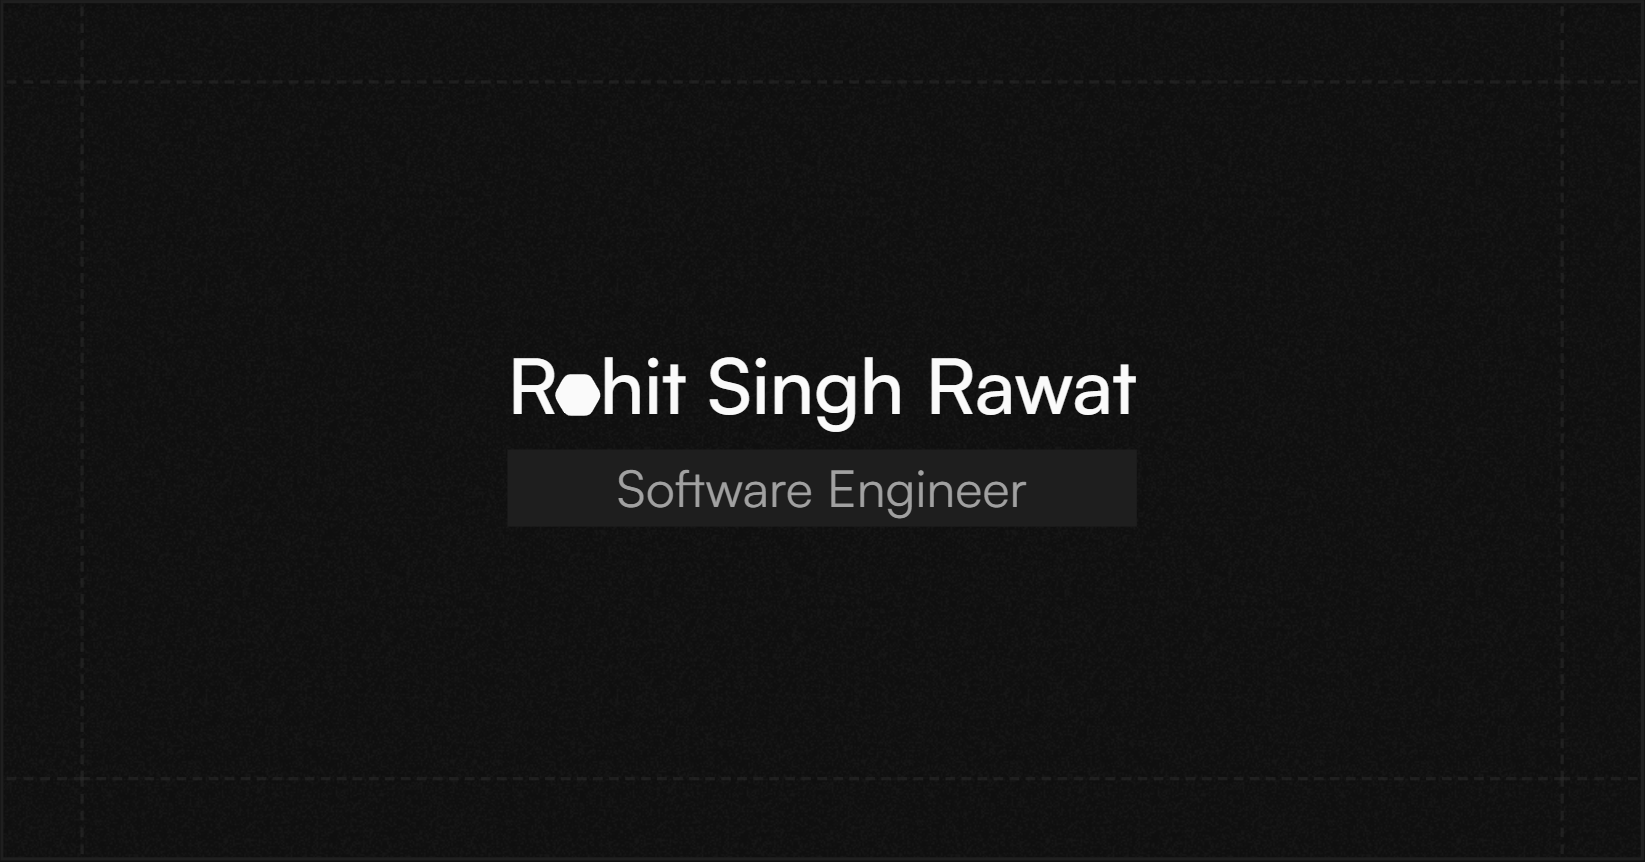
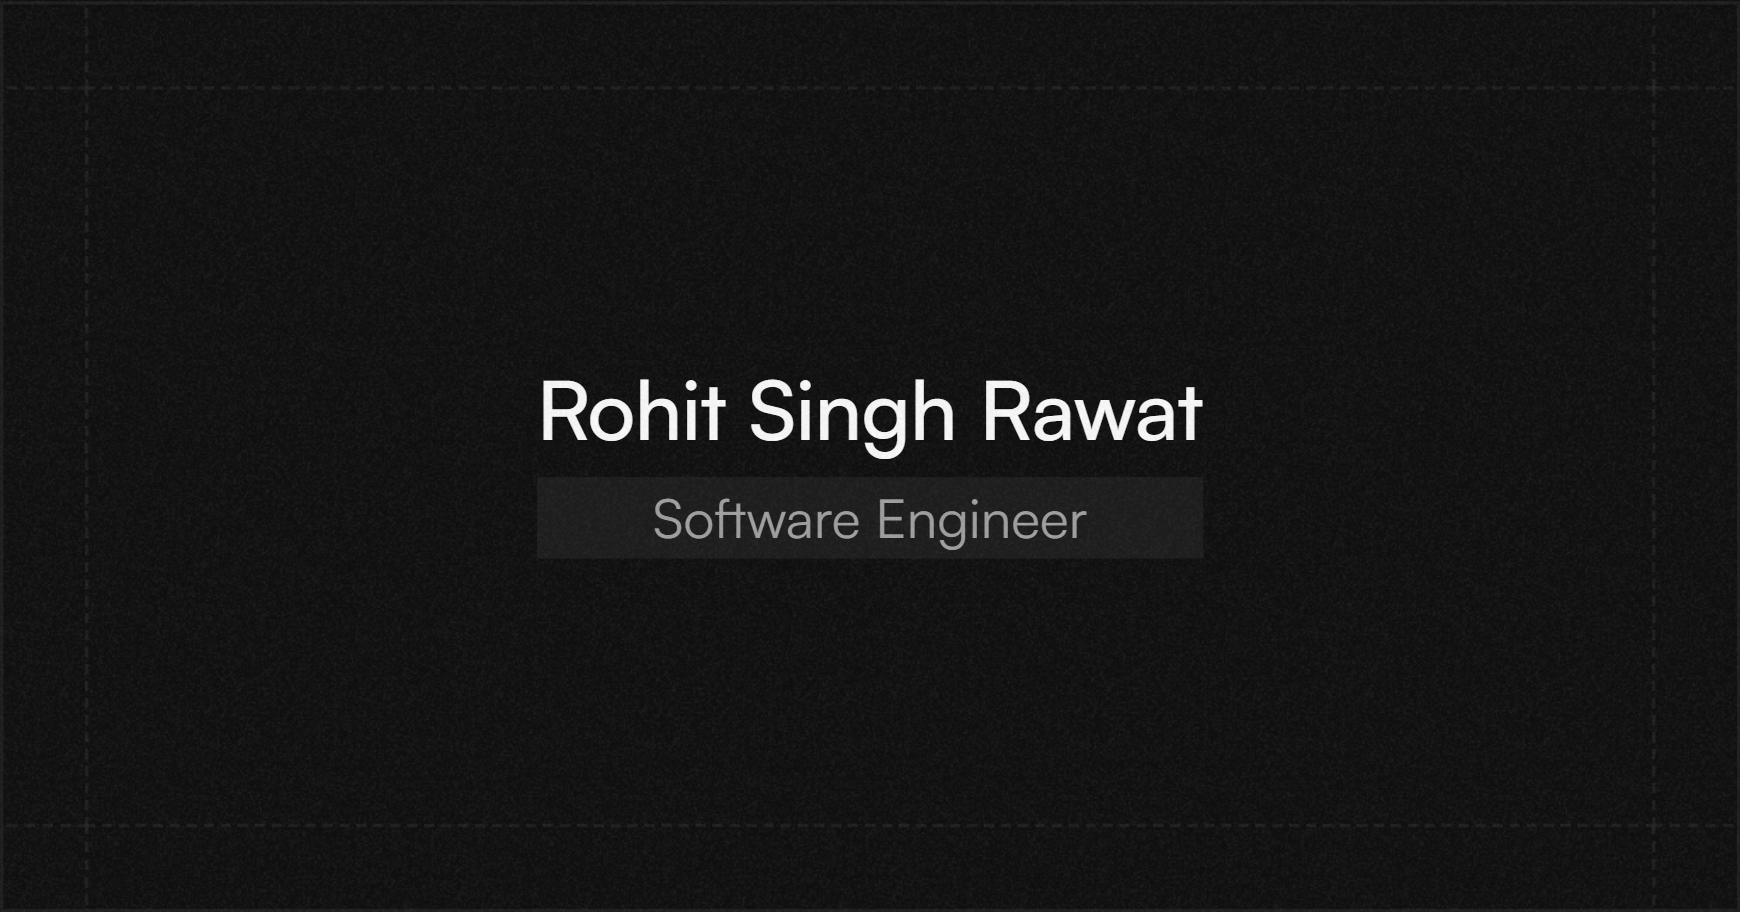
chore: change og image

Changed region(s): [[0.31, 0.4223, 0.6821, 0.5128], [0.372, 0.5429, 0.6201, 0.6032]]

diff --git a/components/og-card/og-card.tsx b/components/og-card/og-card.tsx
@@ -1,7 +1,5 @@
 'use client';
 
-import Logo from '@/components/home/logo';
-
 interface OgCardProps {
 	name?: string;
 	title?: string;
@@ -25,7 +23,6 @@ export default function OgCard({
 					<div className='absolute -bottom-6 -right-6 w-6 h-6 border-l border-t border-border/50 border-dashed'></div>
 
 					<div className='flex flex-col gap-1 relative'>
-						<Logo className='w-1 h-1 scale-[0.5] absolute top-[3px] left-1.5' />
 						<h1 className='text-2xl font-medium'>{name}</h1>
 						<h2 className='text-muted-foreground bg-accent text-center px-2'>
 							{title}

diff --git a/components/home/logo.tsx b/components/home/logo.tsx
@@ -1,10 +1,12 @@
+import { cn } from '@/lib/utils';
+
 interface LogoProps {
 	className?: string;
 }
 
 const Logo = ({ className }: LogoProps) => {
 	return (
-		<div className={`w-8 h-8 ${className || ''}`}>
+		<div className={cn('w-8 h-8', className)}>
 			<svg
 				xmlns='http://www.w3.org/2000/svg'
 				viewBox='0 0 484 456'

diff --git a/app/playground/page.tsx b/app/playground/page.tsx
@@ -1,5 +1,5 @@
 import Heading from '@/components/home/heading';
-import OgCard from '@/components/og-card';
+import OgCard from '@/components/og-card/og-card';
 import { generateMetadata } from '@/lib/seo';
 
 export const metadata = generateMetadata({
